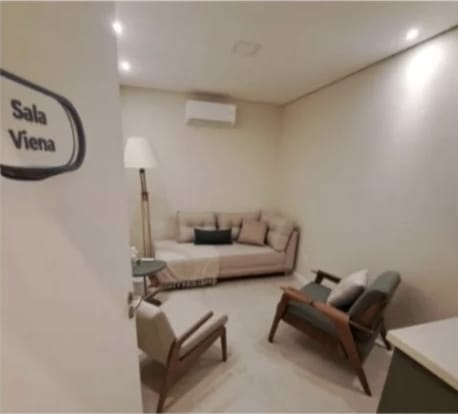
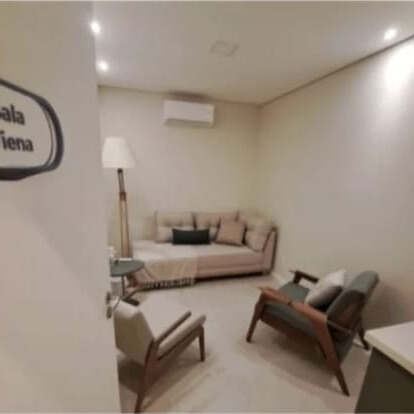
novas funcionalidades

diff --git a/index.html b/index.html
@@ -1,46 +1,47 @@
 <!DOCTYPE html>
 <html lang="pt-br">
+
 <head>
     <meta charset="UTF-8">
     <meta name="viewport" content="width=Charllene Mac, initial-scale=1.0">
     <meta name="description" content="Página de Charllene Marvcondes - Psicopedagoga.">
-    
+
     <!-- Links -->
-        <link rel="stylesheet" href="style.css">
+    <link rel="stylesheet" href="style.css">
 
     <!-- Icones-->
-        <link rel="stylesheet" href="https://cdn.jsdelivr.net/npm/bootstrap-icons@1.11.3/font/bootstrap-icons.min.css">
-        <link rel="stylesheet" href="https://cdnjs.cloudflare.com/ajax/libs/font-awesome/6.5.0/css/all.min.css">
-        <link rel="stylesheet" href="Responsivo.css">
+    <link rel="stylesheet" href="https://cdn.jsdelivr.net/npm/bootstrap-icons@1.11.3/font/bootstrap-icons.min.css">
+    <link rel="stylesheet" href="https://cdnjs.cloudflare.com/ajax/libs/font-awesome/6.5.0/css/all.min.css">
+    <link rel="stylesheet" href="Responsivo.css">
 
     <!-- Fontes -->
-   <link rel="preconnect" href="https://fonts.googleapis.com">
+    <link rel="preconnect" href="https://fonts.googleapis.com">
     <link rel="preconnect" href="https://fonts.gstatic.com" crossorigin>
     <link href="https://fonts.googleapis.com/css2?family=Nunito:wght@400;600;700&display=swap" rel="stylesheet">
 
     <title>Charlene Marcondes - Psicopedagogia</title>
 </head>
+
 <body>
-    
+
     <header>
         <nav class="navbar" aria-label="Navegação Principal">
             <img src="IMG/logo.png" class="logo" alt="Logo com cérebro e folhas em tons de verde e azul">
-            
-            <button class="menu-toggle" id="menu-toggle" aria-expanded="false" 
-                aria-controls="nav-list"
+
+            <button class="menu-toggle" id="menu-toggle" aria-expanded="false" aria-controls="nav-list"
                 aria-label="Abrir menu de navegação">
                 <span class="bar" aria-hidden="true"></span>
                 <span class="bar" aria-hidden="true"></span>
                 <span class="bar" aria-hidden="true"></span>
             </button>
 
-        <ul class="nav-list" id="nav-list">
-            <li><a href="#">Sobre Charllene</a></li>
-            <li><a href="#">TDAH</a></li>
-            <li><a href="#">Autismo</a></li>
-            <li><a href="#">Dislexia</a></li>
-            <li><a href="#">TEA - TOD</a></li>
-        </ul>
+            <ul class="nav-list" id="nav-list">
+                <li><a href="#">Sobre Charllene</a></li>
+                <li><a href="#">TDAH</a></li>
+                <li><a href="#">Autismo</a></li>
+                <li><a href="#">Dislexia</a></li>
+                <li><a href="#">TEA - TOD</a></li>
+            </ul>
         </nav>
     </header>
 
@@ -48,17 +49,18 @@
 
     <main>
         <section class="hero-site" aria-labelledby="hero-title">
-           
+
             <div class="hero-image">
                 <img src="IMG/psicopedagogia-charllene-marcondes-aprendizado-infantil.jpg" alt="Fotografia de uma criança pequena sorrindo enquanto organiza cubos com letras sobre uma mesa de madeira. Ao lado, há um ábaco colorido. 
-                O cenário é uma sala de estudos suavemente iluminada pela luz da janela."  role="presentation">
+                O cenário é uma sala de estudos suavemente iluminada pela luz da janela." role="presentation">
             </div>
 
             <div class="hero-content">
                 <h1 id="hero-site">O suporte especializado que seu filho precisa para aprender melhor.</h1>
 
                 <p>
-                    Na clínica de <span>Charllene Marcondes</span>, cada criança é única. Unimos afeto e ciência para destravar o potencial de aprendizagem do seu filho, 
+                    Na clínica de <span>Charllene Marcondes</span>, cada criança é única. Unimos afeto e ciência para
+                    destravar o potencial de aprendizagem do seu filho,
                     construindo um caminho de autonomia e confiança.
                 </p>
 
@@ -71,8 +73,8 @@
                 Charllene Marcondes
             </h2>
 
-        <div>
-            <img src="IMG/foto-de-charllene.png" alt="
+            <div class="sobre-areas">
+                <img src="IMG/foto-de-charllene.png" alt="
                 Eu sou uma mulher adulta de pele clara, cabelos longos e loiros, usando óculos. 
                 Estou em pé, sorrindo, vestindo um blazer marrom sobre uma blusa preta e uma calça 
                 preta. Ao meu lado há um totem azul do XIII Congresso Internacional Einstein de 
@@ -80,17 +82,27 @@
                 empresas patrocinadoras. A foto foi tirada em um ambiente de congresso, 
                 transmitindo um clima profissional e acolhedor.
             ">
-            <p>Sou psicopedagoga especializada em Educação Especial e Autismo, com formação em Terapia ABA e no método 
-                Denver. <br><br><br>Atuo no desenvolvimento cognitivo e emocional de crianças e adolescentes, 
-                oferecendo intervenções que promovem aprendizagens significativas, autonomia e inclusão.
-                <br><br>Meu trabalho é pautado em abordagens científicas e humanizadas, respeitando a individualidade de cada pessoa e valorizando suas potencialidades, 
-                para que cada criança e adolescente possa se desenvolver de forma plena, segura e confiante.
-            </p>    
-        </div>
+                <ul class="areas">
+                    <li>Psicopedagogia</li>
+                    <li>Autismo</li>
+                    <li>Terapia ABA</li>
+                    <li>Método Denver</li>
+                </ul>
+
+            </div>
+
+            <div class="redes-sociais">
+                <a href="https://wa.me/5511949301565" target="_blank"><i class="bi bi-whatsapp"></i></a>
+                <a href="https://www.instagram.com/chay.psicopedagoga/" target="_blank"><i
+                        class="bi bi-instagram"></i></a>
+            </div>
+
+            <a href="#" target="_blank" rel="noopener noreferrer" class="btn-sobre">Sobre Charllene</a>
+
         </section>
 
         <section class="carrocel" aria-roledescription="carrocel" aria-label="porquê procurar Psicopedagoga">
-            
+
             <h2 class="carrocel-tittle">Quando procurar uma Psicopedagoga</h2>
 
             <button class="carrocel-control prev" aria-label="Card anterior">
@@ -100,7 +112,8 @@
             <ul class="carrocel-track" id="carrocel-track">
                 <li class="card" aria-hidden="false">
                     <h3>Dificuldades de aprendizagem</h3>
-                    <p>Algumas pessoas aprendem em um ritmo diferente ou precisam de métodos específicos para compreender conteúdos.</p>
+                    <p>Algumas pessoas aprendem em um ritmo diferente ou precisam de métodos específicos para
+                        compreender conteúdos.</p>
                 </li>
                 <li class="card" aria-hidden="false">
                     <h3>Déficit de atenção (TDAH)</h3>
@@ -130,12 +143,47 @@
 
             <button class="carrocel-control next" aria-label="Próximo card">
                 <i class="bi bi-caret-right"></i>
-             </button>
+            </button>
 
             <nav class="carrocel-dots" aria-label="selecionar card"></nav>
+        </section>
+
+        <!-- IMAGEM DO ESPAÇO -->
+        <section class="espaço" aria-labelledby="espaco-titulo">
+            <div class="nosso-espaço">
+                <h3 id="espaco-titulo">Nosso espaço</h3>
+
+                <div class="grid-fotos">
+                    <div class="grid-fotos">
+                        <figure>
+                            <img src="IMG/espaço-1.jpg"
+                                alt="Sala de atendimento com sofá claro, duas poltronas estofadas e iluminação suave, criando um ambiente acolhedor e tranquilo."
+                                loading="lazy">
+                        </figure>
+
+                        <figure>
+                            <img src="IMG/espaço-2.jpg"
+                                alt="Sala lúdica infantil com tapete colorido de EVA, mesa pequena com cadeiras, prateleiras com brinquedos e decoração em tons suaves."
+                                loading="lazy">
+                        </figure>
+
+                        <figure>
+                            <img src="IMG/espaço-3.jpg"
+                                alt="Consultório com duas poltronas confortáveis, mesa lateral, prateleiras de madeira decorativas e iluminação indireta."
+                                loading="lazy">
+                        </figure>
+
+                        <figure>
+                            <img src="IMG/espaço-4.jpg"
+                                alt="Recepção com balcão iluminado, poltronas alinhadas para espera, sofá confortável e decoração em tons neutros e naturais."
+                                loading="lazy">
+                        </figure>
+                    </div>
+                </div>
         </section>
     </main>
 
     <script src="script.js"></script>
 </body>
+
 </html>

diff --git a/style.css b/style.css
@@ -19,6 +19,9 @@
   /* Estados */
   --success: #7bbf6a;
   --focus: #9fd3e5;
+
+  /* box shadow */
+  --box-shadow: 0 0 10px -5px var(--text-muted);
 }
 
 @import url('https://fonts.googleapis.com/css2?family=Nunito:wght@400..900&family=Nunito:ital,wght@0,200..1000;1,200..1000&display=swap');
@@ -233,7 +236,6 @@ button, a{
     max-width: 95%;
     margin: 0 auto;
     padding: 2rem;
-    line-height: 1.5;
 }
 
 .sobre h2{
@@ -254,19 +256,72 @@ button, a{
     border-radius: 2px;
 }
 
-.sobre img{
-    width: 120px;
+.sobre-areas{
+    display: flex;
+    align-items: flex-start;
+    gap: 2rem;
+    width: 100%;
+    margin: 0 auto;
+}
+
+.areas {
+    list-style-type: none;
+    margin: 0;
+    display: flex;
+    flex-direction: column;
+    justify-content: space-around;
+}
+
+.areas li{
+    position: relative;
+    line-height: 3.4;
+    font-size: 1rem;
+    font-weight: bold;
+    color: var(--primary-hover);
+}
+
+.areas li::before{
+    content: "•";
+    position: absolute;
+    left: -25%;              /* cola no início da lista */
+    top: 50%;
+    transform: translateY(-50%);
+    color: var(--primary-hover);
+    font-size: 1.4rem;
+}
+
+.sobre-areas img{
+    width: 150px;
     height: auto;
-    float: left;
     margin-right: 25px;
     background-color: var(--bg-main);
     box-shadow: 0 0 10px -5px var(--text-muted);
     border-radius: 20px 5px 5px 20px;
+    margin-bottom: 50px;
 }
 
-.sobre p{
-    font-size: 1rem;
-    font-weight: 300;
+.btn-sobre{
+    display: block;
+    text-decoration: none;
+    margin: 50px;
+    text-align: center;
+    background-color: var(--title-main);
+    color: var(--bg-card);
+    padding: 10px 20px;
+    border-radius: 10px;
+    box-shadow: 0 0 15px -5px var(--text-muted);;
+}
+
+.redes-sociais{
+    text-align: center;
+    margin-top: 20px;
+    font-size: 2rem;
+}
+
+.redes-sociais i{
+    color: #4f7f12;
+    padding: 0 20px;
+    
 }
 
 .carrocel-tittle{
@@ -328,7 +383,7 @@ button, a{
     position: absolute;
     top: 62%;
     transform: translateY(-50%);
-    z-index: 10;
+    z-index: 4;
     width: 45px;
     height: 45px;
     background-color: transparent;
@@ -385,7 +440,58 @@ button, a{
   background: var(--title-main);
 }
 
+/* Grid - Espaço */
 
+.espaço{
+    padding: 4rem 1rem;
+}
+
+.nosso-espaço{
+    max-width: 90%;
+    margin: 0 auto;
+}
+
+.nosso-espaço h3{
+    text-align: center;
+    font-size: 1.7rem;
+    margin-bottom: 2rem;
+    color: var(--title-main);
+    font-weight: bold;
+}
+
+.nosso-espaço h3::after{
+    content: "";
+    display: block;
+    width: 60px;
+    height: 2px;
+    background-color: var(--title-main);
+    margin: 12px auto 0;
+    border-radius: 2px;
+}
+
+.grid-fotos{
+    display: grid;
+    grid-template-columns: repeat(auto-fit, minmax(220px, 1fr));
+    gap: 1.5rem;
+}
+
+.grid-fotos figure {
+  margin: 0;
+}
+
+.grid-fotos img {
+  width: 100%;
+  aspect-ratio: 1 / 1;
+  object-fit: cover;
+  border-radius: 10px;
+  display: block;
+  box-shadow: 0 0 20px -10px var(--text-muted);;
+}
+
+.grid-fotos img:focus-visible {
+  outline: 3px solid var(--title-main);
+  outline-offset: 4px;
+}
 
 
 

diff --git a/script.js b/script.js
@@ -150,3 +150,29 @@ track.addEventListener("transitionend", () => {
     track.style.transform = `translateX(-${getWidth() * index}px)`;
   }
 });
+
+let startX = 0;
+let endX = 0;
+const swipe = 50;
+
+track.addEventListener("touchstart", (e) => {
+  startX = e.touches[0].clientX
+})
+
+track.addEventListener("touchmove", (e) =>{
+  endX = e.touches[0].clientX
+})
+
+track.addEventListener("touchend", (e) => {
+  const distance = startX - endX
+
+  if(Math.abs(distance) < swape) return;
+
+  if(distance > 0){
+    index++;
+    move()
+  }else{
+    index--;
+    move()
+  }
+})
